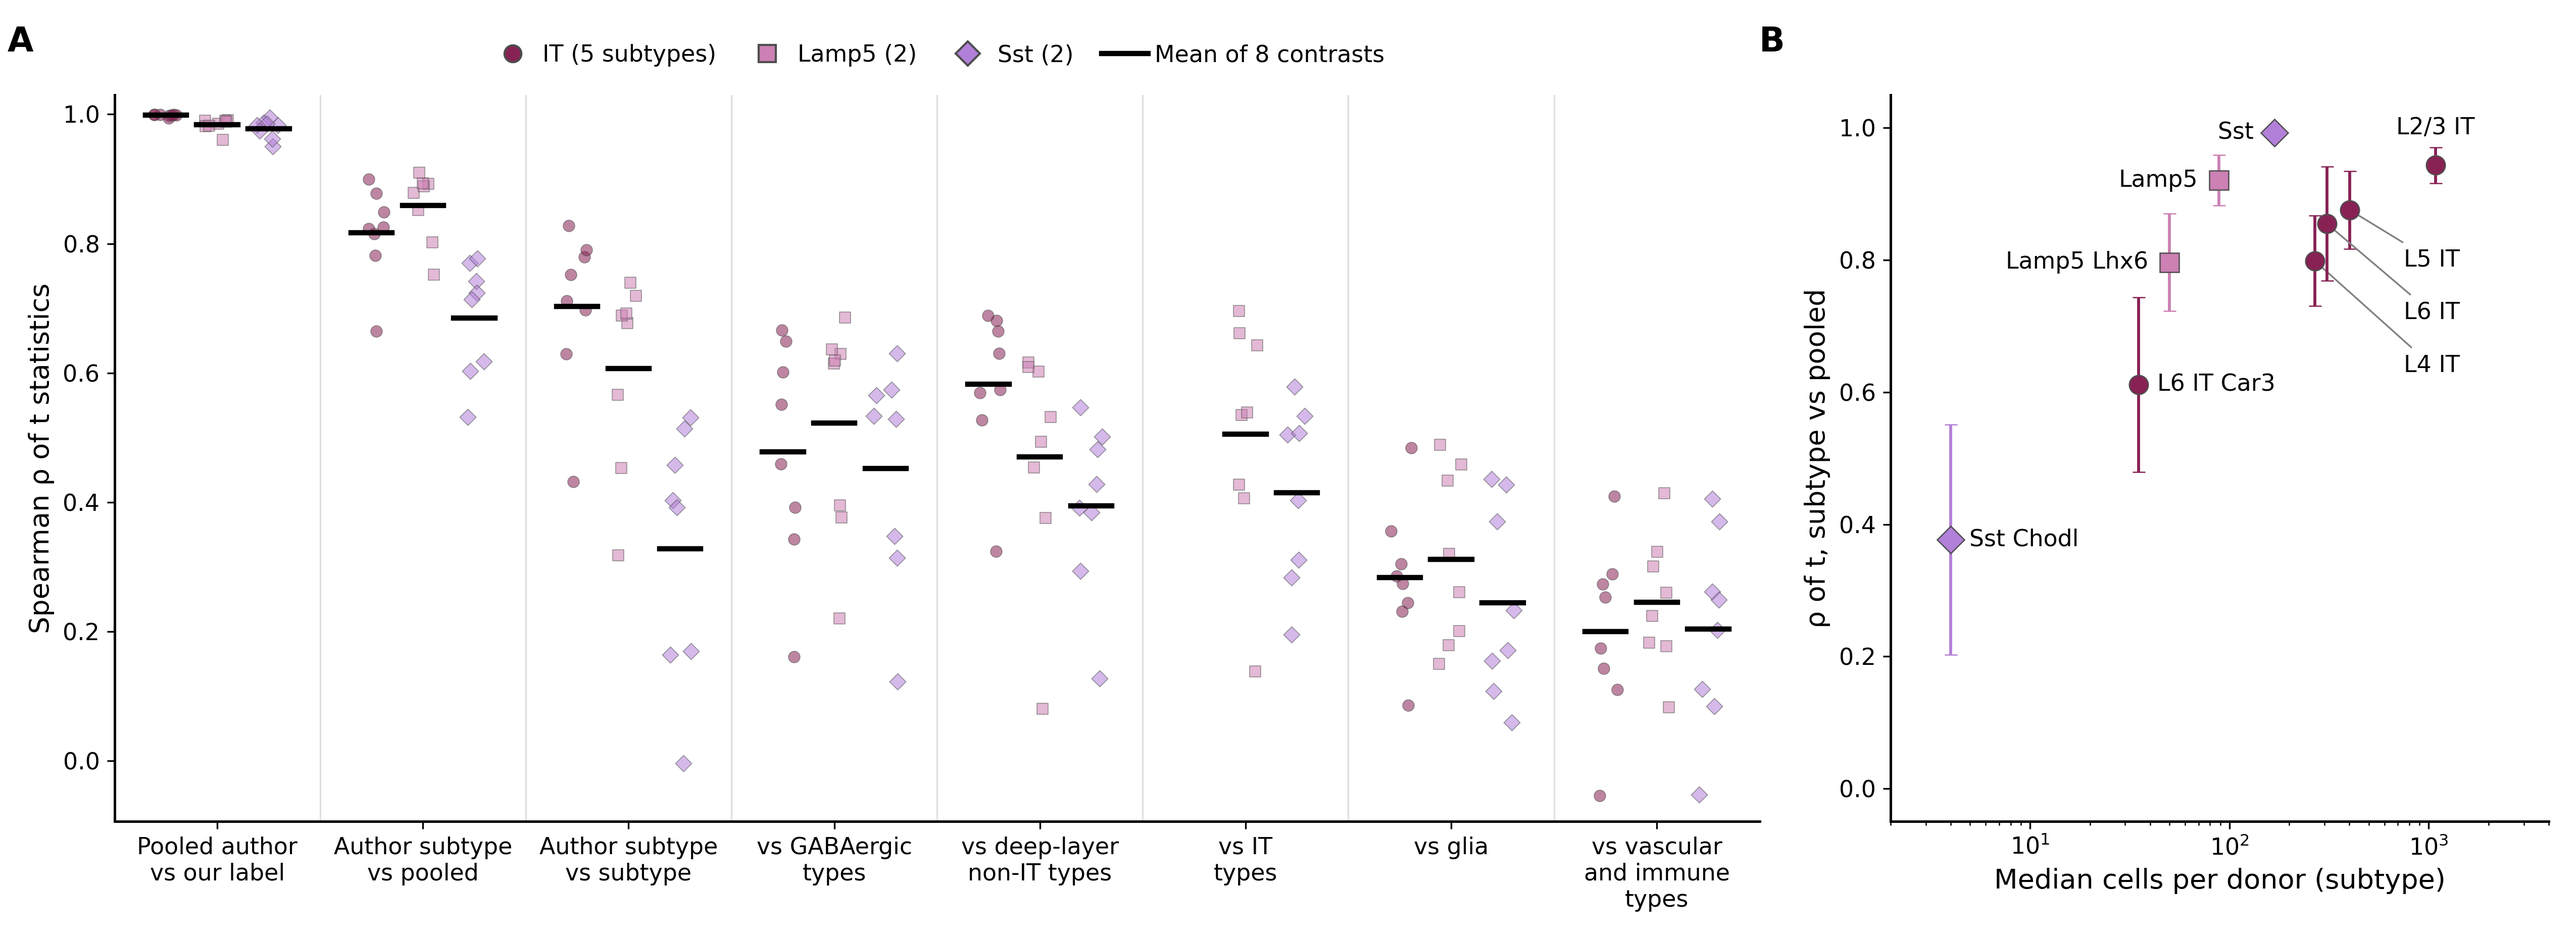
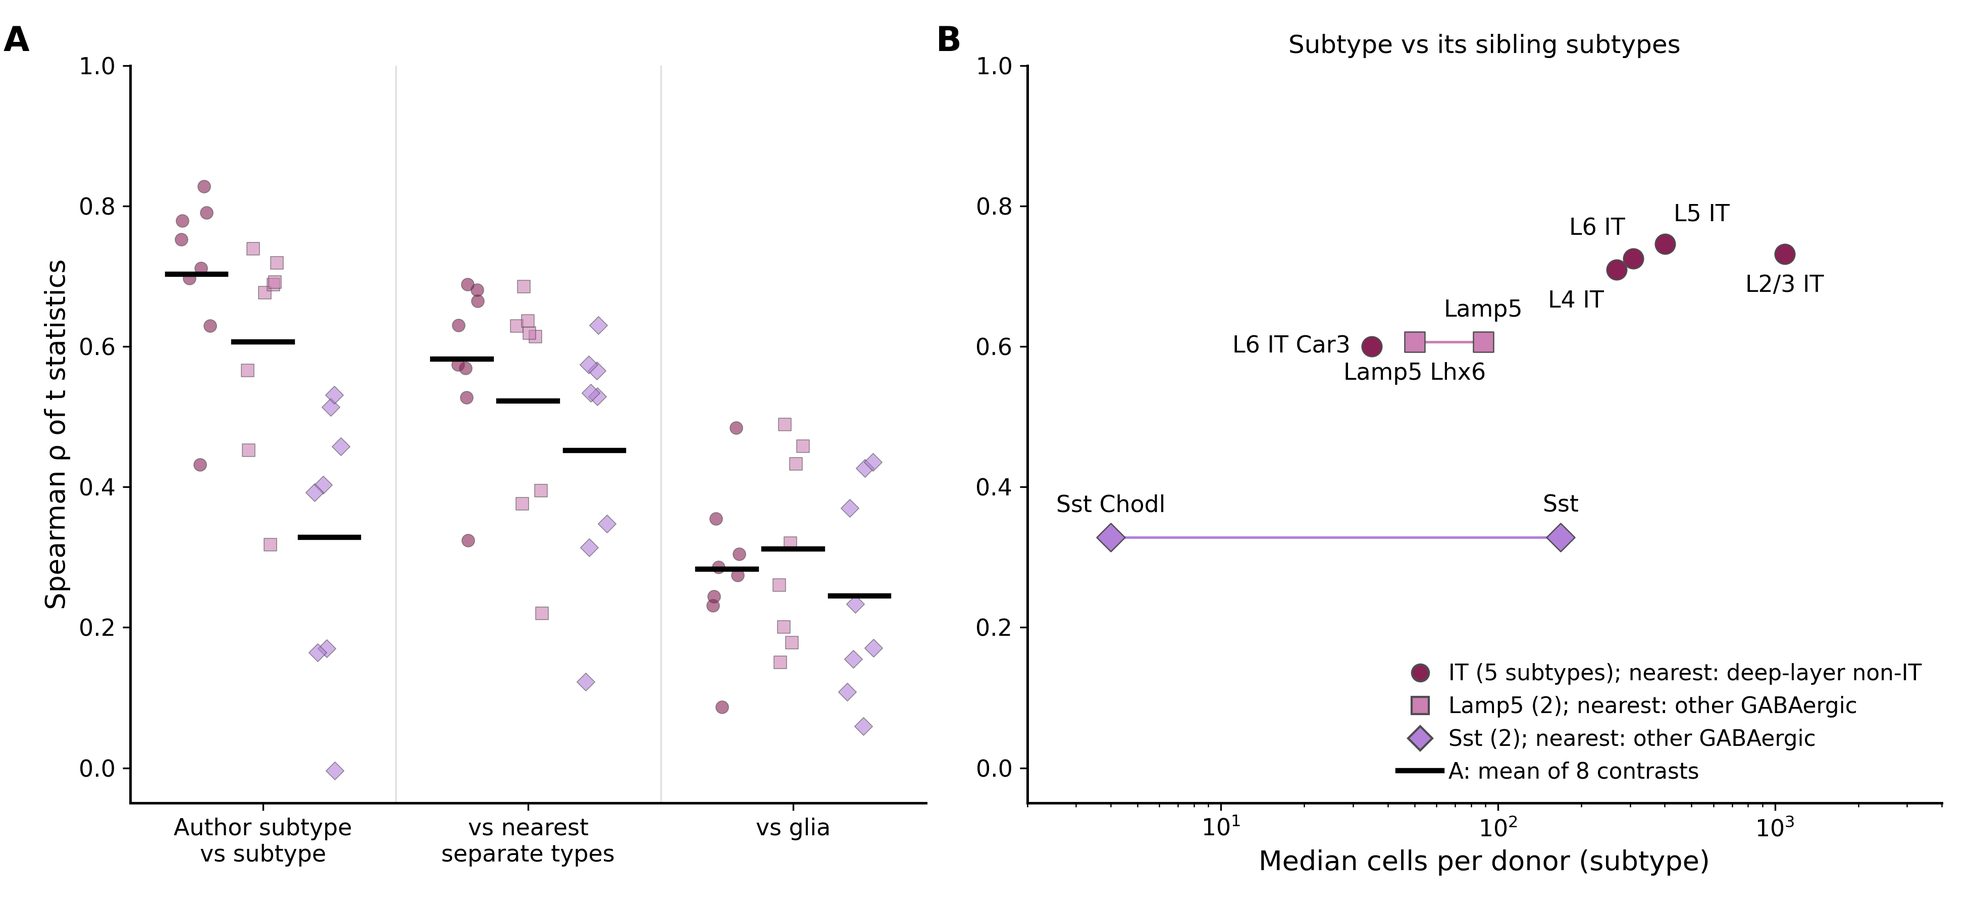
subtype_vs_pooled: simplify figure to subtype vs subtype, nearest types and glia
Panel B now plots each subtype against its sibling subtypes (no shared cells);
summary.tsv gains subtype_vs_siblings.

Claude-Session: https://claude.ai/code/session_01At8jYPVMc7frnUZfxzCKaW

diff --git a/subtype_vs_pooled/plot_subtype_vs_pooled_t.py b/subtype_vs_pooled/plot_subtype_vs_pooled_t.py
@@ -4,7 +4,8 @@
 Reads pairwise_rho.tsv, summary.tsv and cells_per_donor.tsv (written by subtype_vs_pooled.py) and
 writes subtype_vs_pooled_t.png plus manifest_plot_t.json. Panel A: per-contrast rho (mean over
 pairs within a contrast) for each comparison and group, with the mean over the eight contrasts.
-Panel B: each subtype's mean rho with its pooled author type against median cells per donor.
+Panel A shows author subtype vs subtype, vs the nearest separate types (NEAREST) and vs glia.
+Panel B: each subtype's mean rho with its sibling subtypes against median cells per donor.
 Colours come from the shared manuscript palette (class level).
 """
 import csv
@@ -29,19 +30,19 @@ IN_CELLS = os.path.join(HERE, "cells_per_donor.tsv")
 OUT_PNG = os.path.join(HERE, "subtype_vs_pooled_t.png")
 OUT_MAN = os.path.join(HERE, "manifest_plot_t.json")
 
+# Panel A categories. "nearest" is the closest separate group of author types: deep-layer non-IT
+# types for IT subtypes, GABAergic types outside the pooled group for Lamp5 and Sst subtypes.
+NEAREST = {"IT": "vs_deep_non_it", "Lamp5": "vs_gaba", "Sst": "vs_gaba"}
 COMPARISONS = [
     ("subtype_vs_subtype", "Author subtype\nvs subtype"),
-    ("subtype_vs_pooled", "Author subtype\nvs pooled"),
-    ("vs_it", "vs IT\ntypes"),
-    ("vs_gaba", "vs GABAergic\ntypes"),
-    ("vs_deep_non_it", "vs deep-layer\nnon-IT types"),
+    ("nearest", "vs nearest\nseparate types"),
     ("vs_glia", "vs glia"),
-    ("vs_vascular_immune", "vs vascular\nand immune\ntypes"),
-    ("pooled_vs_ours", "Pooled author\nvs our label"),
 ]
 GROUPS = ["IT", "Lamp5", "Sst"]
 GROUP_CLASS = {"IT": "L2/3-6 IT", "Lamp5": "LAMP5", "Sst": "SST"}
-GROUP_LABEL = {"IT": "IT (5 subtypes)", "Lamp5": "Lamp5 (2)", "Sst": "Sst (2)"}
+GROUP_LABEL = {"IT": "IT (5 subtypes); nearest: deep-layer non-IT",
+               "Lamp5": "Lamp5 (2); nearest: other GABAergic",
+               "Sst": "Sst (2); nearest: other GABAergic"}
 GROUP_MARKER = {"IT": "o", "Lamp5": "s", "Sst": "D"}
 SUBTYPE_LABEL = {"L2.3_IT": "L2/3 IT", "L4_IT": "L4 IT", "L5_IT": "L5 IT", "L6_IT": "L6 IT",
                  "L6_IT_Car3": "L6 IT Car3", "Lamp5": "Lamp5", "Lamp5_Lhx6": "Lamp5 Lhx6",
@@ -79,73 +80,67 @@ def main():
     sg = summ[summ.level == "group"].set_index(["group", "comparison"])["mean_rho_t"]
     for k, v in means.items():
         assert abs(v - sg[k]) < 1e-3, (k, v, sg[k])
+    # map each group's nearest separate types onto one "nearest" category
+    for g, c in NEAREST.items():
+        means[(g, "nearest")] = means[(g, c)]
+    per_c = pd.concat([per_c] + [per_c[(per_c.group == g) & (per_c.comparison == c)].assign(comparison="nearest")
+                                 for g, c in NEAREST.items()], ignore_index=True)
     # one category order for all groups: highest to lowest mean of the group means
-    # (vs IT types averages Lamp5 and Sst only, as IT has no such comparison)
-    order_mean = means.groupby(level="comparison").mean()
+    order_mean = pd.Series({c: np.mean([means[(g, c)] for g in GROUPS]) for c, _ in COMPARISONS})
     comps = sorted(COMPARISONS, key=lambda c: -order_mean[c[0]])
 
     plt.rcParams.update({"font.family": "DejaVu Sans", "font.size": 12, "axes.spines.top": False,
                          "axes.spines.right": False, "axes.linewidth": 1.2})
-    fig, (axA, axB) = plt.subplots(1, 2, figsize=(17, 6.2), gridspec_kw={"width_ratios": [2.5, 1]})
+    fig, (axA, axB) = plt.subplots(1, 2, figsize=(13, 6), sharey=True, gridspec_kw={"width_ratios": [1, 1.15]})
 
     rng = np.random.default_rng(0)
     dodge = {"IT": -0.25, "Lamp5": 0.0, "Sst": 0.25}
     for i, (comp, _) in enumerate(comps):
         for g in GROUPS:
             v = per_c[(per_c.group == g) & (per_c.comparison == comp)]["rho_t"].to_numpy()
-            if len(v) == 0:  # IT has no "vs IT types" comparison
-                continue
             x = i + dodge[g]
-            axA.scatter(x + rng.uniform(-0.06, 0.06, len(v)), v, s=30, color=col[g],
-                        marker=GROUP_MARKER[g], alpha=0.55, edgecolor="0.3", linewidth=0.4, zorder=2)
-            axA.plot([x - 0.1, x + 0.1], [means[(g, comp)]] * 2, color="black", lw=2.5, zorder=3)
-    axA.set_xticks(range(len(COMPARISONS)))
+            axA.scatter(x + rng.uniform(-0.06, 0.06, len(v)), v, s=36, color=col[g],
+                        marker=GROUP_MARKER[g], alpha=0.6, edgecolor="0.3", linewidth=0.4, zorder=2)
+            axA.plot([x - 0.11, x + 0.11], [means[(g, comp)]] * 2, color="black", lw=2.5, zorder=3)
+    axA.set_xticks(range(len(comps)))
     axA.set_xticklabels([lab for _, lab in comps], fontsize=11)
-    axA.set_xlim(-0.5, len(COMPARISONS) - 0.5)
-    axA.set_ylim(min(-0.05, per_c.rho_t.min() - 0.04), 1.03)
+    axA.set_xlim(-0.5, len(comps) - 0.5)
+    ylo = min(-0.05, per_c[per_c.comparison.isin([c for c, _ in comps])].rho_t.min() - 0.04)
+    axA.set_ylim(ylo, 1.0)
     axA.set_ylabel("Spearman ρ of t statistics", fontsize=13)
     axA.tick_params(axis="y", labelsize=11)
-    for i in range(1, len(COMPARISONS)):
+    for i in range(1, len(comps)):
         axA.axvline(i - 0.5, color="0.88", lw=0.8, zorder=0)
-    handles = [plt.Line2D([], [], ls="", marker=GROUP_MARKER[g], color=col[g], markeredgecolor="0.3",
-                          markersize=8, label=GROUP_LABEL[g]) for g in GROUPS]
-    handles.append(plt.Line2D([], [], color="black", lw=2.5, label="Mean of 8 contrasts"))
-    axA.legend(handles=handles, loc="lower center", bbox_to_anchor=(0.5, 1.01), fontsize=11, frameon=False,
-               ncol=4, handletextpad=0.3, columnspacing=1.2)
-    axA.text(-0.065, 1.06, "A", transform=axA.transAxes, fontsize=16, fontweight="bold")
+    axA.text(-0.16, 1.02, "A", transform=axA.transAxes, fontsize=16, fontweight="bold")
 
-    # panel B
-    st = summ[(summ.level == "type") & (summ.comparison == "subtype_vs_pooled")].copy()
+    # panel B: each subtype vs its sibling subtypes (no shared cells)
+    st = summ[(summ.level == "type") & (summ.comparison == "subtype_vs_siblings")].copy()
     cpd = cells[cells.scheme == "author"].set_index("celltype")["median_cells_per_donor"]
     st["cells"] = st["type_a"].map(cpd)
-    # label positions in data coordinates (None = offset next to the point), chosen by eye on the PNG
-    label_at = {"L2.3_IT": ((1082, 1.0), "center"), "L5_IT": ((750, 0.80), "left"),
-                "L6_IT": ((750, 0.72), "left"), "L4_IT": ((750, 0.64), "left"),
-                "L6_IT_Car3": (None, (9, 0, "left")), "Lamp5": (None, (-10, 0, "right")),
-                "Lamp5_Lhx6": (None, (-10, 0, "right")), "Sst": (None, (-10, 0, "right")),
-                "Sst_Chodl": (None, (9, 0, "left"))}
+    for g in ["Lamp5", "Sst"]:  # two subtypes share one value: join them
+        q = st[st.group == g]
+        axB.plot(q["cells"], q["mean_rho_t"], color=col[g], lw=1.2, zorder=2)
+    # label offsets in points (dx, dy, ha), chosen by eye on the PNG
+    off = {"L2.3_IT": (0, -15, "center"), "L4_IT": (-6, -15, "right"), "L5_IT": (4, 14, "left"),
+           "L6_IT": (-4, 14, "right"), "L6_IT_Car3": (-10, 0, "right"), "Lamp5": (0, 15, "center"),
+           "Lamp5_Lhx6": (0, -15, "center"), "Sst": (0, 15, "center"), "Sst_Chodl": (0, 15, "center")}
     for _, r in st.iterrows():
         g = r["group"]
-        axB.errorbar(r["cells"], r["mean_rho_t"], yerr=r["sd_rho_t"], fmt=GROUP_MARKER[g], ms=9,
-                     color=col[g], mec="0.3", mew=0.6, ecolor=col[g], elinewidth=1.4, capsize=3, zorder=3)
-        pos, how = label_at[r["type_a"]]
-        xy = (r["cells"], r["mean_rho_t"])
-        if pos is None:
-            dx, dy, ha = how
-            axB.annotate(SUBTYPE_LABEL[r["type_a"]], xy, xytext=(dx, dy), textcoords="offset points",
-                         ha=ha, va="center", fontsize=11)
-        else:
-            same = abs(pos[0] - xy[0]) < 1
-            axB.annotate(SUBTYPE_LABEL[r["type_a"]], xy, xytext=pos, ha=how, va="center", fontsize=11,
-                         arrowprops=None if same else dict(arrowstyle="-", color="0.5", lw=0.8,
-                                                           shrinkA=2, shrinkB=5))
+        axB.scatter(r["cells"], r["mean_rho_t"], marker=GROUP_MARKER[g], s=90, color=col[g],
+                    edgecolor="0.3", linewidth=0.6, zorder=3)
+        dx, dy, ha = off[r["type_a"]]
+        axB.annotate(SUBTYPE_LABEL[r["type_a"]], (r["cells"], r["mean_rho_t"]), xytext=(dx, dy),
+                     textcoords="offset points", ha=ha, va="center", fontsize=11)
     axB.set_xscale("log")
     axB.set_xlim(2, 4000)
-    axB.set_ylim(-0.05, 1.05)
     axB.set_xlabel("Median cells per donor (subtype)", fontsize=13)
-    axB.set_ylabel("ρ of t, subtype vs pooled", fontsize=13)
-    axB.tick_params(labelsize=11)
-    axB.text(-0.2, 1.06, "B", transform=axB.transAxes, fontsize=16, fontweight="bold")
+    axB.set_title("Subtype vs its sibling subtypes", fontsize=12)
+    axB.tick_params(labelsize=11, labelleft=True)
+    handles = [plt.Line2D([], [], ls="", marker=GROUP_MARKER[g], color=col[g], markeredgecolor="0.3",
+                          markersize=8, label=GROUP_LABEL[g]) for g in GROUPS]
+    handles.append(plt.Line2D([], [], color="black", lw=2.5, label="A: mean of 8 contrasts"))
+    axB.legend(handles=handles, loc="lower right", fontsize=10.5, frameon=False, handletextpad=0.3)
+    axB.text(-0.1, 1.02, "B", transform=axB.transAxes, fontsize=16, fontweight="bold")
 
     fig.tight_layout()
     fig.savefig(OUT_PNG, dpi=300, facecolor="white")
@@ -167,12 +162,14 @@ def main():
         "outputs": {"subtype_vs_pooled/subtype_vs_pooled_t.png": {"sha256": sha(OUT_PNG), "mtime": stamp(OUT_PNG)}},
         "panel_A_order": [c for c, _ in comps],
         "panel_A_order_mean_rho_t": {c: round(float(order_mean[c]), 4) for c, _ in comps},
-        "group_mean_rho_t": {f"{g}|{c}": round(float(means[(g, c)]), 4) for g in GROUPS for c, _ in COMPARISONS
-                             if (g, c) in means.index},
+        "nearest_separate_types": NEAREST,
+        "panel_A_mean_rho_t": {f"{g}|{c}": round(float(means[(g, c)]), 4) for g in GROUPS for c, _ in comps},
+        "panel_B_subtype_vs_siblings_mean_rho_t": {r["type_a"]: round(float(r["mean_rho_t"]), 4)
+                                                   for _, r in st.iterrows()},
         "comparator_groups": up.get("comparator_groups"),
     }
     json.dump(man, open(OUT_MAN, "w"), indent=2)
-    print(json.dumps(man["group_mean_rho_t"], indent=1))
+    print(json.dumps({k: man[k] for k in ["panel_A_order_mean_rho_t", "panel_A_mean_rho_t", "panel_B_subtype_vs_siblings_mean_rho_t"]}, indent=1))
 
 
 if __name__ == "__main__":

diff --git a/subtype_vs_pooled/subtype_vs_pooled.py b/subtype_vs_pooled/subtype_vs_pooled.py
@@ -9,6 +9,8 @@ moderated t between:
   vs_<named group>     each subtype and the author types of a named group outside its own pooled
                        group (COMPARATORS: IT types, GABAergic types, deep-layer non-IT types,
                        glia, vascular and immune types)
+  subtype_vs_siblings  (summary only) each subtype against its sibling subtypes: mean over its
+                       subtype_vs_subtype pairs within a contrast, then over contrasts
   pooled_vs_ours       merged author DE of the group and our pipeline-label DE (Figure 4 value)
 Genes: inner join of the two tables, as bin/aggregate_pairwise.py. The DE is one limma fit per
 cell type over all eight cohorts (no cohort term), so each contrast is one table per type.
@@ -127,12 +129,15 @@ def main():
         n_pairs = df.groupby(keys + ["contrast"]).size().groupby(keys).max().rename("pairs_per_contrast")
         return s.merge(n_pairs.reset_index(), on=keys)
 
-    order = ["subtype_vs_pooled", "subtype_vs_subtype", "vs_it", "vs_gaba", "vs_deep_non_it", "vs_glia",
+    order = ["subtype_vs_pooled", "subtype_vs_subtype", "subtype_vs_siblings", "vs_it", "vs_gaba", "vs_deep_non_it", "vs_glia",
              "vs_vascular_immune", "pooled_vs_ours"]
     by_group = summarise(pairs, ["group", "comparison"]).assign(level="group", type_a="all")
     by_type = summarise(pairs[pairs["comparison"] != "subtype_vs_subtype"], ["group", "comparison", "type_a"]).assign(level="type")
     by_pair = summarise(pairs[pairs["comparison"] == "subtype_vs_subtype"], ["group", "comparison", "type_a", "type_b"]).assign(level="pair")
-    summ = pd.concat([by_group, by_type, by_pair], ignore_index=True)
+    sub = pairs[pairs["comparison"] == "subtype_vs_subtype"]
+    sib = pd.concat([sub, sub.rename(columns={"type_a": "type_b", "type_b": "type_a"})], ignore_index=True)
+    by_sib = summarise(sib.assign(comparison="subtype_vs_siblings"), ["group", "comparison", "type_a"]).assign(level="type")
+    summ = pd.concat([by_group, by_type, by_sib, by_pair], ignore_index=True)
     summ["type_b"] = summ.get("type_b").fillna("") if "type_b" in summ else ""
 
     def cells(row, col):

diff --git a/subtype_vs_pooled/README.md b/subtype_vs_pooled/README.md
@@ -10,4 +10,6 @@ IT subtypes were compared with GABAergic types, deep-layer non-IT types, glia, a
 
 ## Figure (t statistics)
 
-`subtype_vs_pooled_t.png` (from `plot_subtype_vs_pooled_t.py`; sha256 in `manifest_plot_t.json`). (A) Spearman ρ of limma moderated t for each comparison, sorted by mean ρ across the three groups, one point per contrast (mean over pairs), black bars the mean of eight contrasts; (B) each subtype's ρ with its pooled author type (mean ± SD over contrasts) against median cells per donor. Subtypes agreed with their pooled type (ρ = 0.82, 0.86, 0.68 for IT, Lamp5, Sst) more than with any other group of author types (at most 0.58, 0.52, 0.45), and agreement fell with subtype size, lowest for Sst Chodl (4 cells per donor, ρ = 0.38).
+`subtype_vs_pooled_t.png` (from `plot_subtype_vs_pooled_t.py`; sha256 in `manifest_plot_t.json`). The figure leaves out subtype vs pooled, which shares cells and so overstates agreement, and pooled author vs our label, which Figure 4 shows. `summary.tsv` keeps every comparison and adds `subtype_vs_siblings` (each subtype's mean ρ with its sibling subtypes).
+
+(A) Spearman ρ of limma moderated t between author subtypes, between each subtype and the nearest separate types (deep-layer non-IT for IT, other GABAergic for Lamp5 and Sst) and between each subtype and glia, one point per contrast and black bars for the mean of eight contrasts; (B) each subtype's mean ρ with its sibling subtypes against median cells per donor, with lines joining the two subtypes of Lamp5 and of Sst, which share one value. IT and Lamp5 subtypes agreed with each other (ρ = 0.70, 0.61) more than with the nearest separate types (0.58, 0.52), Sst and Sst Chodl did not (0.33 vs 0.45), and all exceeded glia (0.28, 0.31, 0.24).
